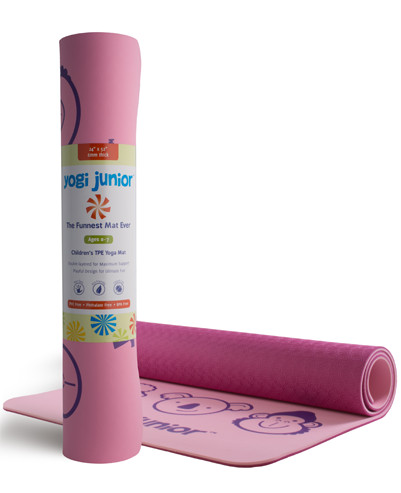
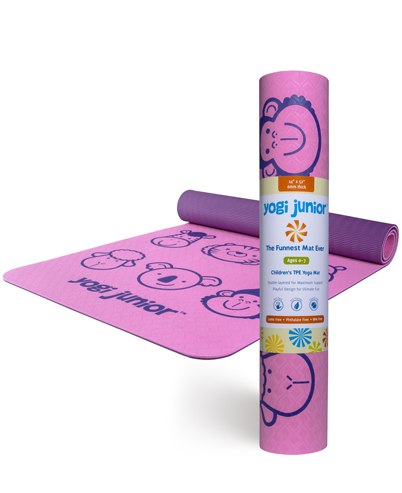
Update photos with expanded color selection. Remove old Gropockets photos.

diff --git a/index.html b/index.html
@@ -89,7 +89,7 @@
         <section id="header">
             <div class="container">
                 <div class="intro-text">
-                    <img src="img/olympic_halfroll_split_offset.jpg" class="img-responsive" alt="">
+                    <img src="img/Group_1FourthRow_01793-Website-VeryHigh.jpg" class="img-responsive" alt="">
                     <h1 class="intro-slogan">
                         The Funnest Mat Ever <!--<span class="arrow"></span>-->
                         <!--The Funnest Mat Ever <span class="arrow appear-animation rotateInUpLeft appear-animation-visible" data-appear-animation="rotateInUpLeft"></span>-->
@@ -120,7 +120,7 @@
             <div class="container">
                 <div class="row">
                     <div class="col-lg-12 text-center">
-                        <h2 class="heading">Choose from <span style="vertical-align: text-top; line-height: 32px">3</span> <span class="alternative-font">fun</span> colors</h2>
+                        <h2 class="heading">Choose from <span style="vertical-align: text-top">6</span> <span class="alternative-font">fun</span> options</h2>
                         <h3 class="subheading text-muted">Perfectly sized to start young and grow into for years to come. Infant to 7 years old recommended.<br>Lightweight material makes them great for kids on the go.<br><b>Size:</b> 24” x 52” <b>Weight:</b> 1.65 lbs.</h3>
                     </div>
                 </div>
@@ -134,29 +134,47 @@
                             <!--<div class="item"><a href="http://amzn.to/1s8wriv"><img src="img/kiwi_up_down_owl.jpg" alt=""></a></div>-->
                             <!--<div class="item"><a href="http://amzn.to/1s8wriv"><img src="img/kiwi_two_textures_owl.jpg" alt=""></a></div>-->
                         </div>
-                        <h4 class="item-heading"><a href="http://amzn.to/1s8wriv">Kiwi</a></h4>
+                        <h4 class="item-heading"><a href="http://amzn.to/2CJJyLv">Kiwi Pals</a></h4>
                     </div>
                     <div class="col-sm-4">
                         <div class="owl-carousel">
                             <div class="item"><img src="img/pink_aerial_owl_2.jpg" alt=""></div>
                             <div class="item"><img src="img/pink_up_down_owl.jpg" alt=""></div>
                             <div class="item"><img src="img/pink_two_textures_owl.jpg" alt=""></div>
-                            <!--<div class="item"><a href="http://amzn.to/1s8wriv"><img src="img/pink_aerial_owl_2.jpg" alt=""></a></div>-->
-                            <!--<div class="item"><a href="http://amzn.to/1s8wriv"><img src="img/pink_up_down_owl.jpg" alt=""></a></div>-->
-                            <!--<div class="item"><a href="http://amzn.to/1s8wriv"><img src="img/pink_two_textures_owl.jpg" alt=""></a></div>-->
                         </div>
-                        <h4 class="item-heading"><a href="http://amzn.to/1s8wriv">Bubblegum</a></h4>
+                        <h4 class="item-heading"><a href="http://amzn.to/1s8wriv">Bubblegum Pals</a></h4>
                     </div>
                     <div class="col-sm-4">
                         <div class="owl-carousel">
                             <div class="item"><img src="img/teal_aerial_owl.jpg" alt=""></div>
                             <div class="item"><img src="img/teal_up_down_owl.jpg" alt=""></div>
                             <div class="item"><img src="img/teal_two_textures_owl_2.jpg" alt=""></div>
-                            <!--<div class="item"><a href="http://amzn.to/1s8wriv"><img src="img/teal_aerial_owl.jpg" alt=""></a></div>-->
-                            <!--<div class="item"><a href="http://amzn.to/1s8wriv"><img src="img/teal_up_down_owl.jpg" alt=""></a></div>-->
-                            <!--<div class="item"><a href="http://amzn.to/1s8wriv"><img src="img/teal_two_textures_owl_2.jpg" alt=""></a></div>-->
                         </div>
-                        <h4 class="item-heading"><a href="http://amzn.to/1s8wriv">Glacier</a></h4>
+                        <h4 class="item-heading"><a href="http://amzn.to/2os9GGF">Glacier Solid</a></h4>
+                    </div>
+                    <div class="col-sm-4">
+                        <div class="owl-carousel">
+                            <div class="item"><img src="img/mango_aerial_owl.jpg" alt=""></div>
+                            <div class="item"><img src="img/mango_up_down_owl.jpg" alt=""></div>
+                            <div class="item"><img src="img/mango_two_textures_owl.jpg" alt=""></div>
+                        </div>
+                        <h4 class="item-heading"><a href="http://amzn.to/2ooWGkZ">Mango Solid</a></h4>
+                    </div>
+                    <div class="col-sm-4">
+                        <div class="owl-carousel">
+                            <div class="item"><img src="img/lilac_aerial_owl.jpg" alt=""></div>
+                            <div class="item"><img src="img/lilac_up_down_owl.jpg" alt=""></div>
+                            <div class="item"><img src="img/lilac_two_textures_owl.jpg" alt=""></div>
+                        </div>
+                        <h4 class="item-heading"><a href="http://amzn.to/2ESp1ur">Lilac Fox</a></h4>
+                    </div>
+                    <div class="col-sm-4">
+                        <div class="owl-carousel">
+                            <div class="item"><img src="img/teal_fox_aerial_owl.jpg" alt=""></div>
+                            <div class="item"><img src="img/teal_fox_up_down_owl.jpg" alt=""></div>
+                            <div class="item"><img src="img/teal_fox_two_textures_owl.jpg" alt=""></div>
+                        </div>
+                        <h4 class="item-heading"><a href="http://amzn.to/2GG98Uf">Glacier Fox</a></h4>
                     </div>
                     <!--<div class="col-sm-4">-->
                     <!--<img src="img/kiwi_aerial.jpg" class="aerial-mat" alt="">-->
@@ -200,7 +218,7 @@
                             <h4>Grippy Textures</h4>
                             <p class="text-muted">For added support and comfort</p>
                             <!--<p class="text-muted">For added support, comfort and stability</p>-->
-                            <img src="img/kiwi_foldover.jpg" class="img-responsive img-circle" alt="">
+                            <img src="img/mango_foldover.jpg" class="img-responsive img-circle" alt="">
                         </div>
                     </div>
                     <div class="col-sm-4">
@@ -208,7 +226,7 @@
                             <h4>Rounded Corners</h4>
                             <!--<p class="text-muted">Make it easy to roll up when it's clean up time</p>-->
                             <p class="text-muted">Make it easy to roll up at clean-up time</p>
-                            <img src="img/corners.jpg" class="img-responsive img-circle" alt="">
+                            <img src="img/Group_3Fourths_01811-websiteVeryHigh.jpg" class="img-responsive img-circle" alt="">
                         </div>
                     </div>
                 </div>
@@ -302,7 +320,7 @@
                         </div>
                         <div class="col-sm-6">
                             <!--<img class="img-responsive" src="img/mats-vformation_2.jpg" style="height: 400px; margin:auto" alt="">-->
-                            <img class="img-responsive" src="img/mat-stack.jpg" style="max-height: 400px; margin:auto" alt="">
+                            <img class="img-responsive" src="img/Group_MixStack.jpg" style="max-height: 400px; margin:auto" alt="">
                         </div>
                     </div>
                 </div>
@@ -328,7 +346,7 @@
 
 
         <!--<section id="contact">-->
-        <section id="contact">
+        <section id="contact" style="border-top: 0;">
             <div class="container">
                 <div class="row">
                     <div class="col-lg-12">
@@ -376,7 +394,7 @@
                 <div class="row">
                     <!--<div class="col-md-4">-->
                     <div class="col-md-12">
-                        <span class="copyright">Copyright &copy; Yogi Junior 2016</span>
+                        <span class="copyright">Copyright &copy; Yogi Junior 2018</span>
                     </div>
                     <div class="col-md-12">
                         <ul class="list-inline social-buttons">
